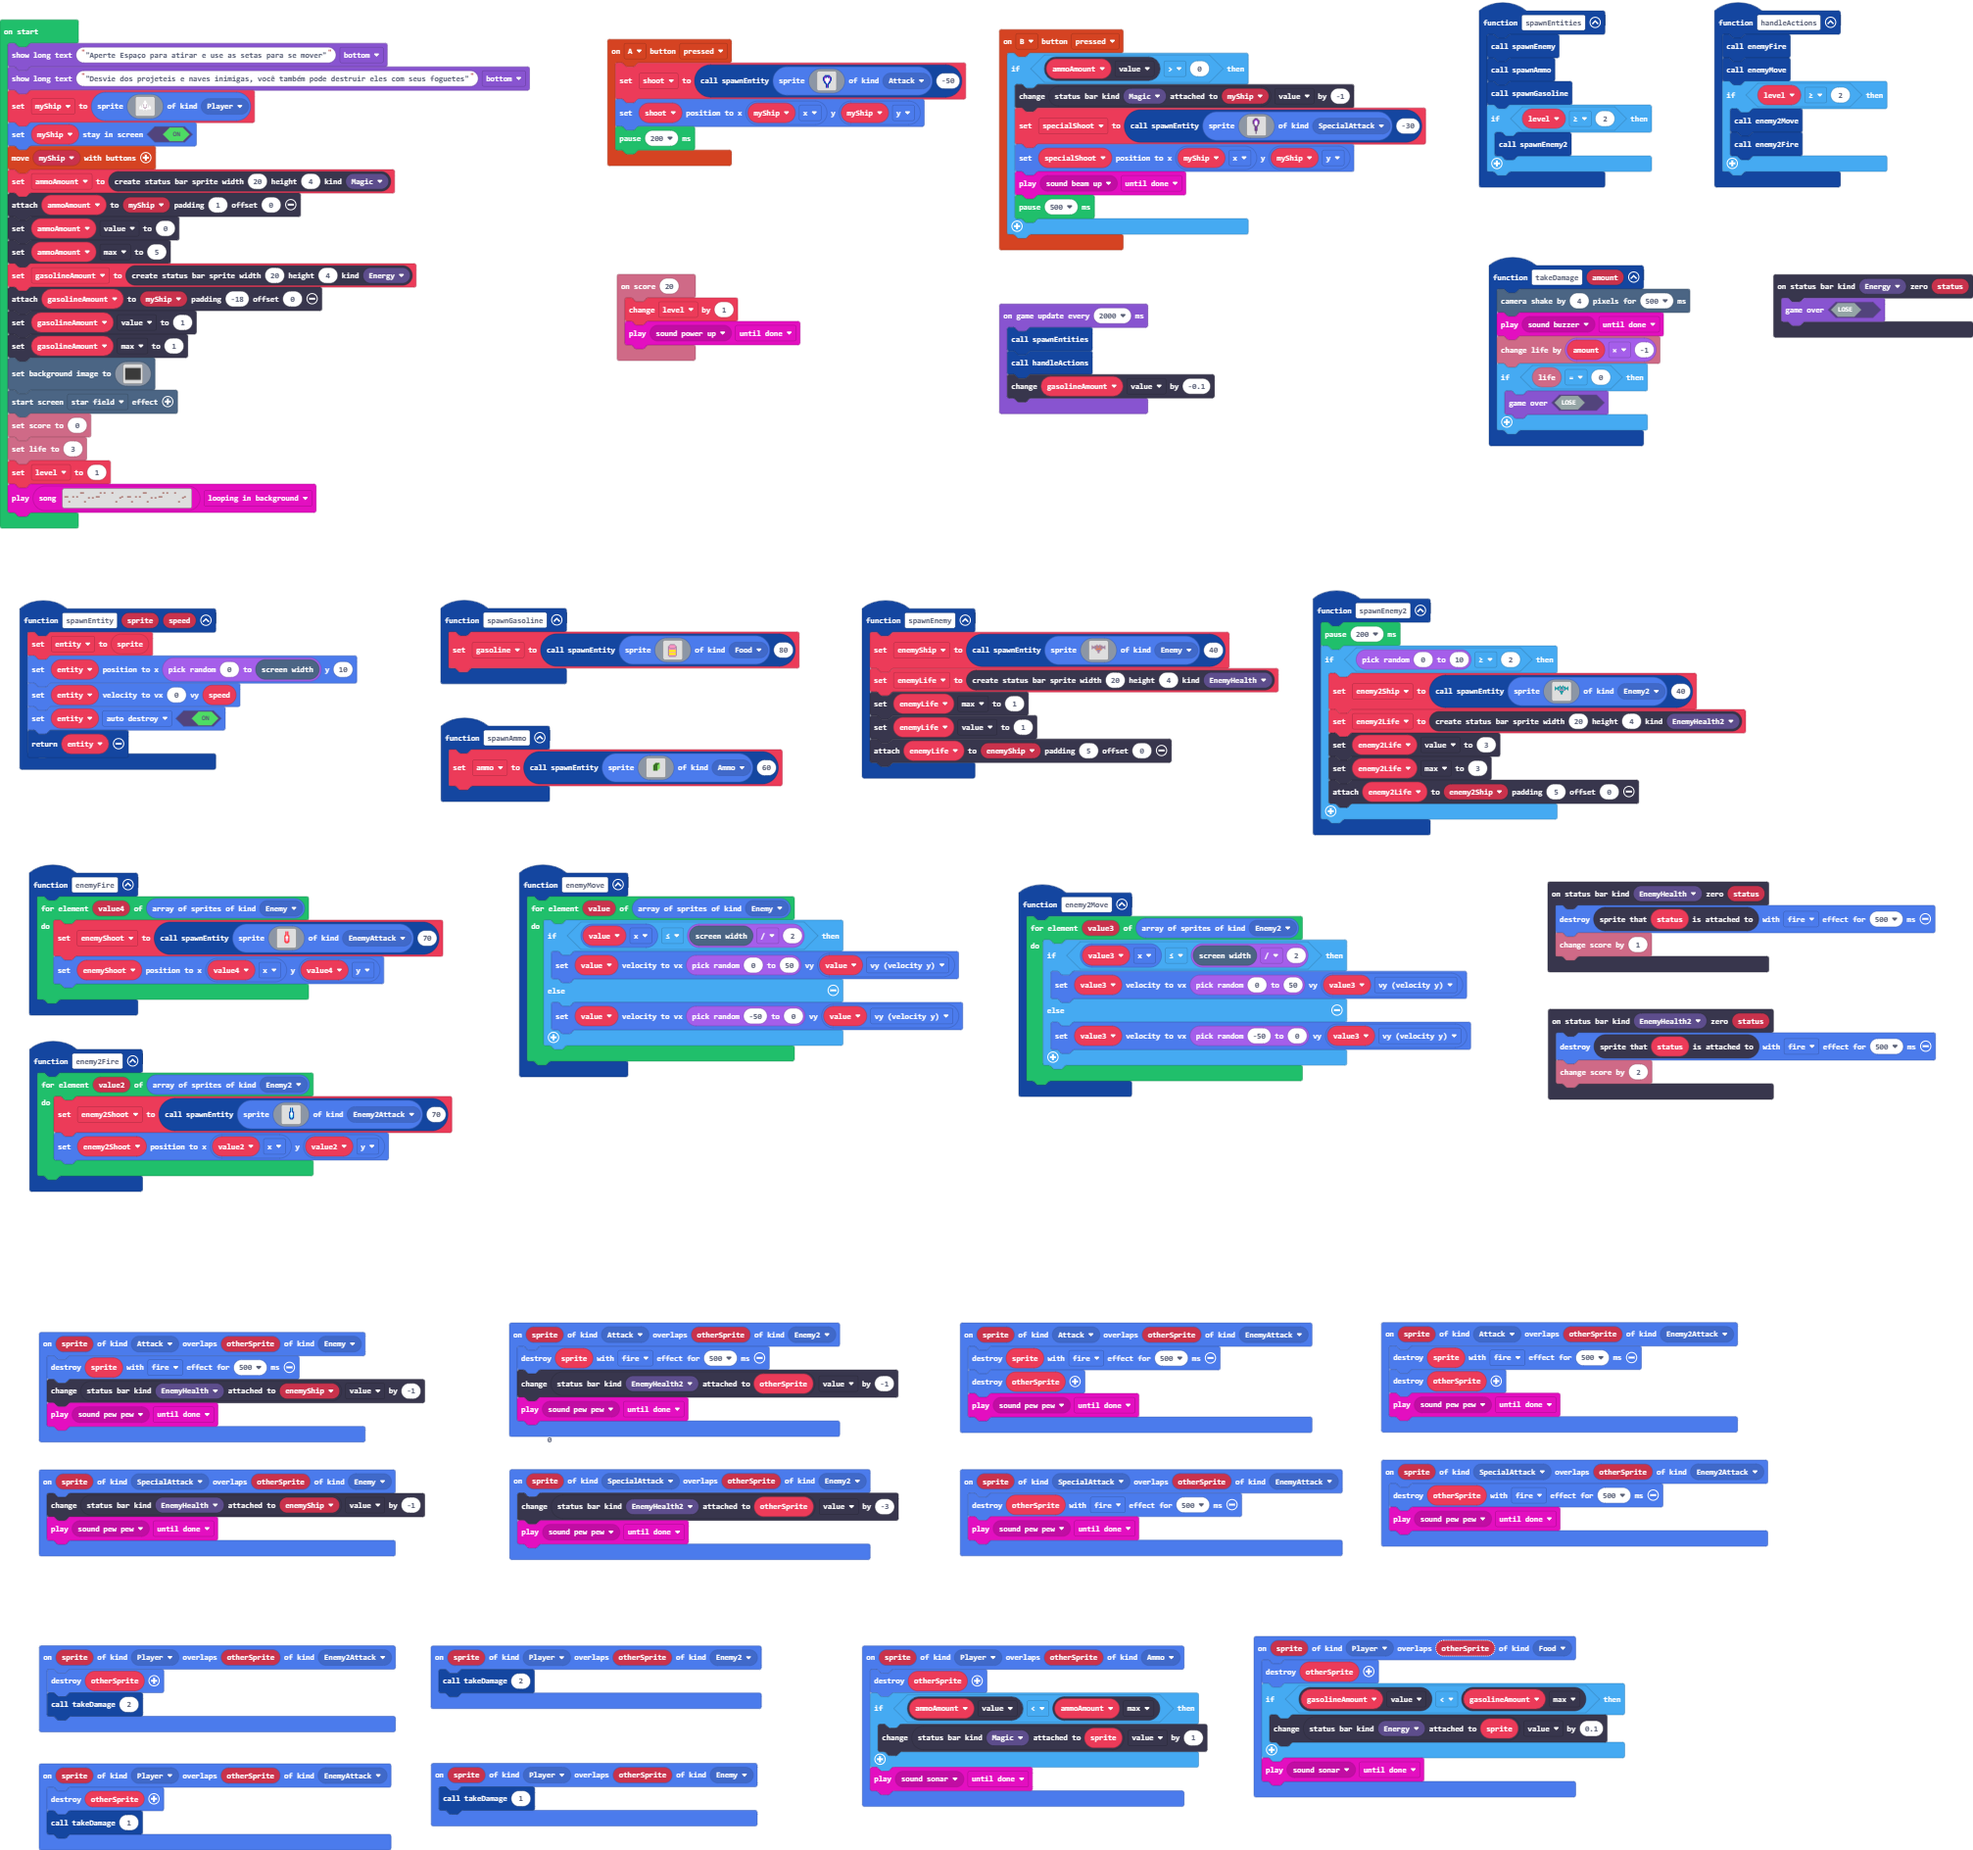
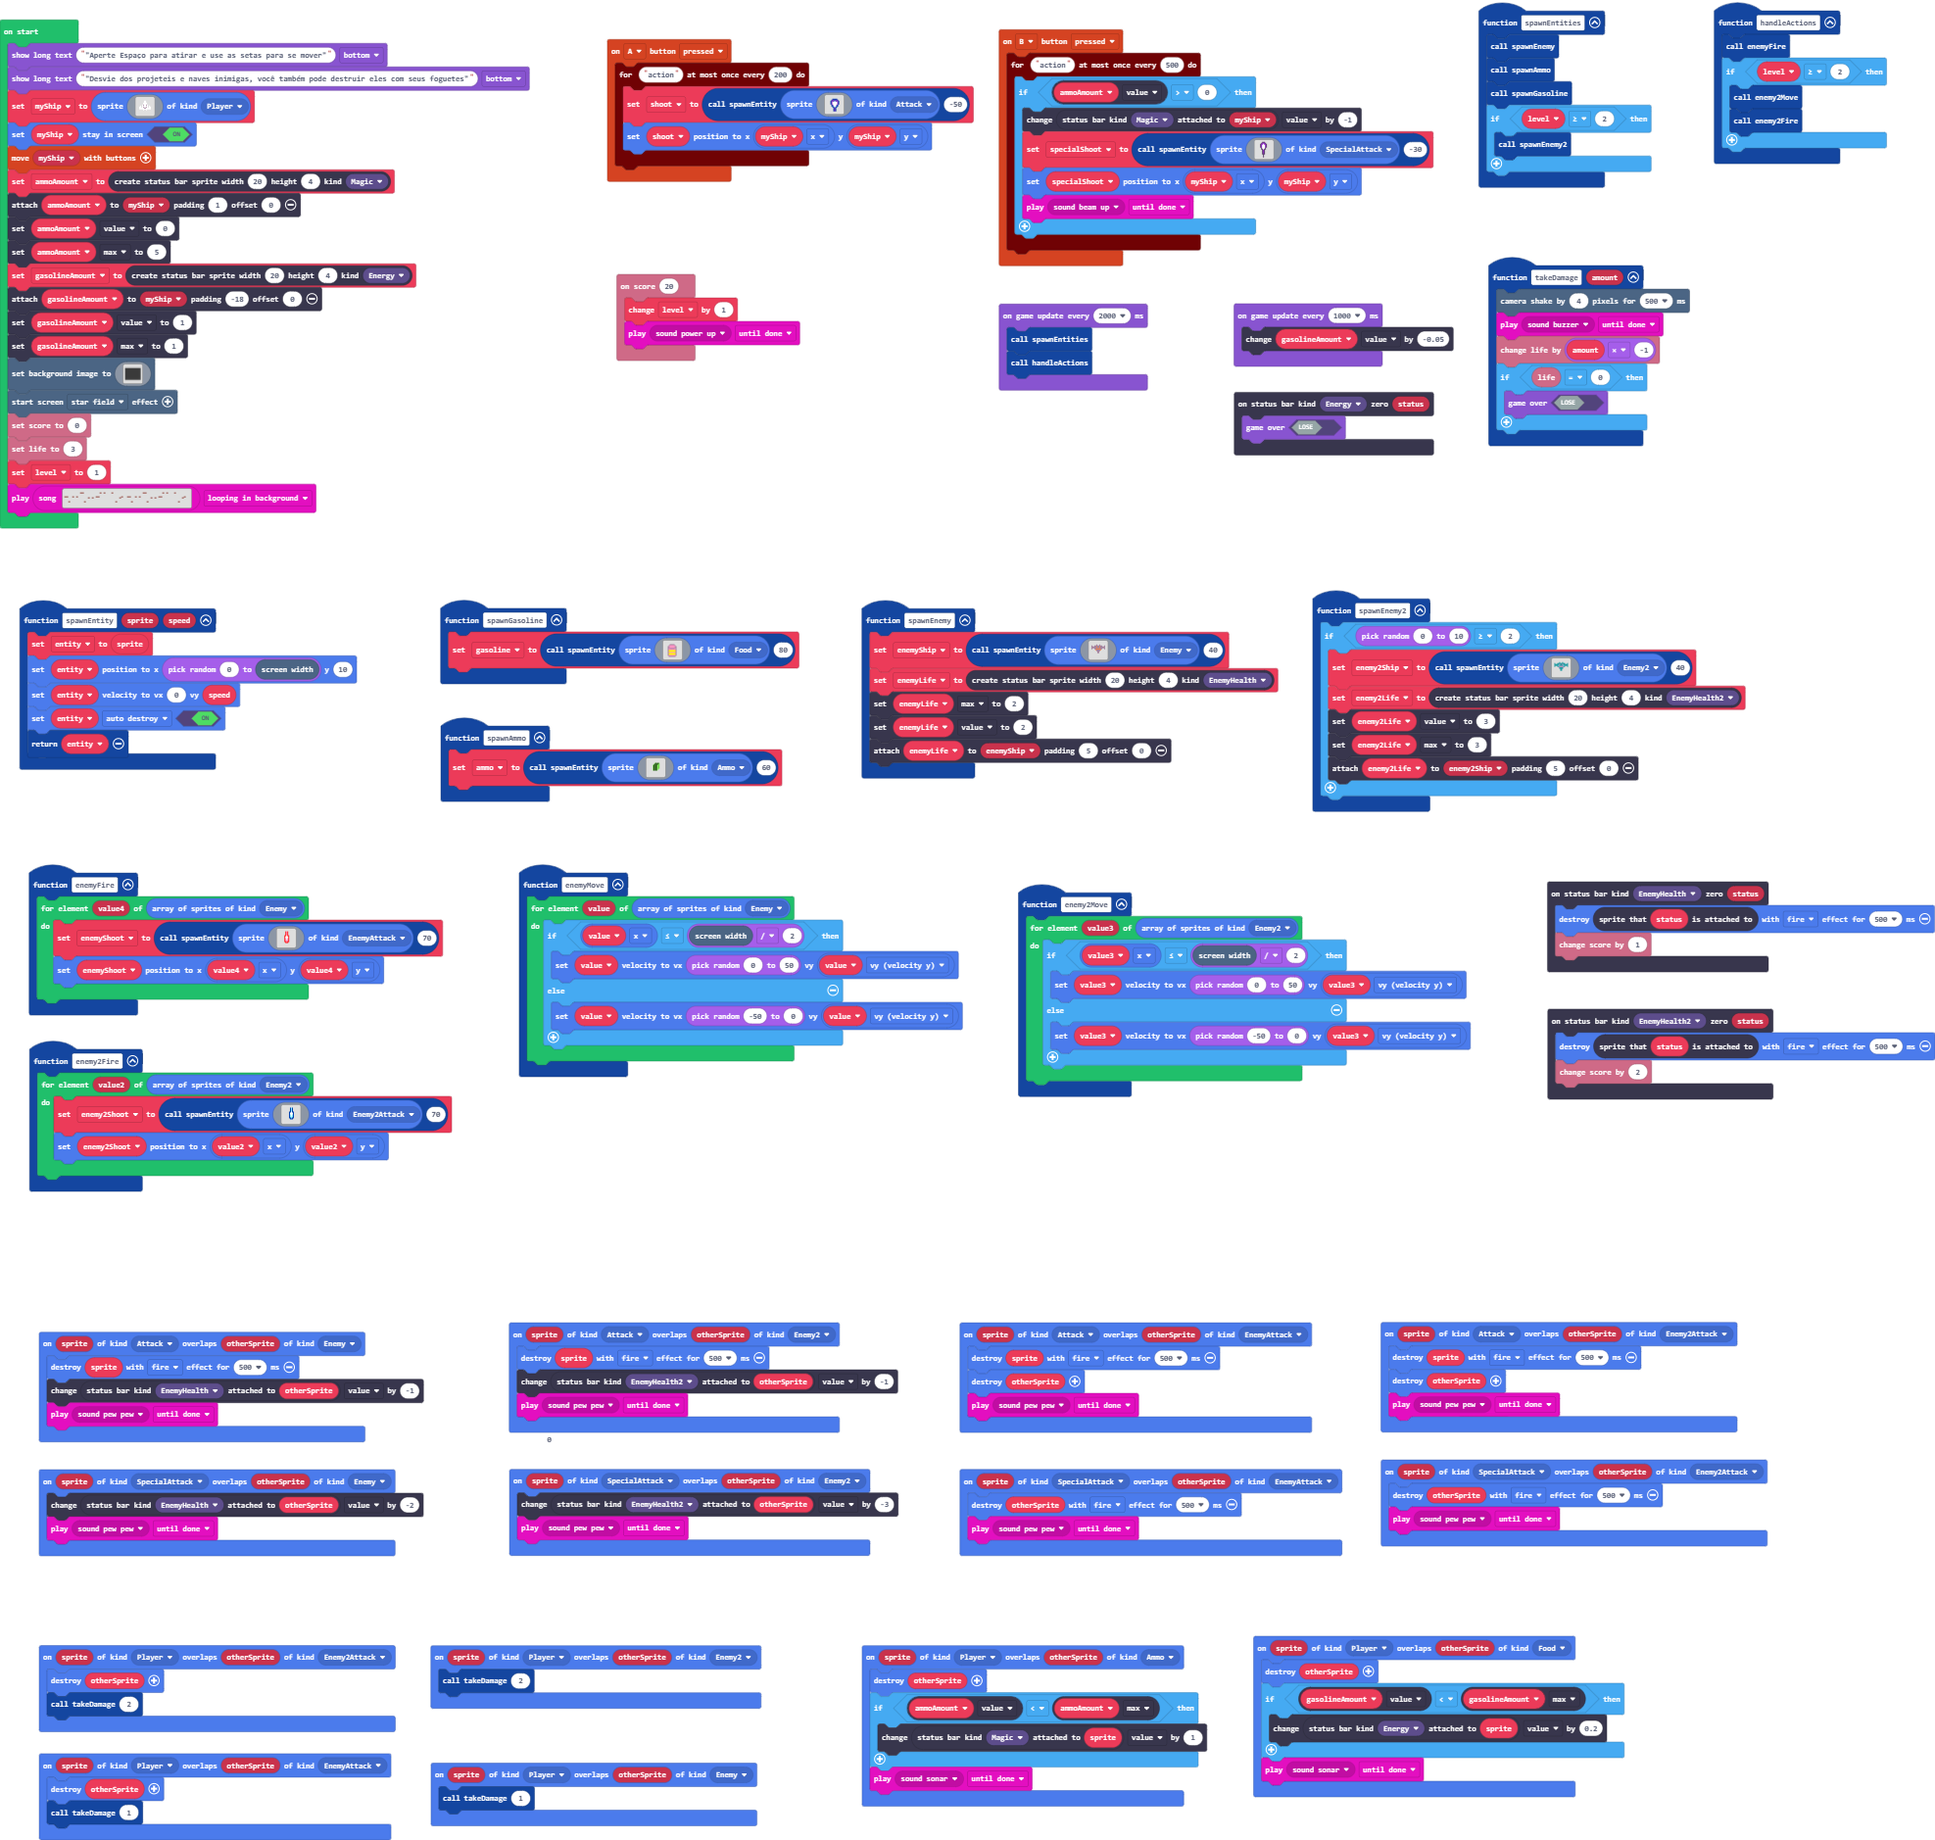
início do balanceamento

diff --git a/main.ts b/main.ts
@@ -10,7 +10,7 @@ namespace StatusBarKind {
     export const EnemyHealth2 = StatusBarKind.create()
 }
 sprites.onOverlap(SpriteKind.SpecialAttack, SpriteKind.Enemy, function (sprite, otherSprite) {
-    statusbars.getStatusBarAttachedTo(StatusBarKind.EnemyHealth, enemyShip).value += -1
+    statusbars.getStatusBarAttachedTo(StatusBarKind.EnemyHealth, otherSprite).value += -2
     music.play(music.melodyPlayable(music.pewPew), music.PlaybackMode.UntilDone)
 })
 function spawnGasoline () {
@@ -48,30 +48,31 @@ function enemyMove () {
     }
 }
 controller.B.onEvent(ControllerButtonEvent.Pressed, function () {
-    if (ammoAmount.value > 0) {
-        statusbars.getStatusBarAttachedTo(StatusBarKind.Magic, myShip).value += -1
-        specialShoot = spawnEntity(sprites.create(img`
-            . . . . . . c c c . . . . . . . 
-            . . . . . c a a a c . . . . . . 
-            . . . . c a a 1 a a c . . . . . 
-            . . . . c a 1 1 1 a c . . . . . 
-            . . . . c a 1 1 1 a c . . . . . 
-            . . . . c a 1 1 1 a c . . . . . 
-            . . . . . c 1 1 1 c . . . . . . 
-            . . . . . c c 1 c c . . . . . . 
-            . . . . . . c a c . . . . . . . 
-            . . . . . . c a c . . . . . . . 
-            . . . . . . c a c . . . . . . . 
-            . . . . . . c a c . . . . . . . 
-            . . . . . . c c c . . . . . . . 
-            . . . . . . . c . . . . . . . . 
-            . . . . . . . c . . . . . . . . 
-            . . . . . . . c . . . . . . . . 
-            `, SpriteKind.SpecialAttack), -30)
-        specialShoot.setPosition(myShip.x, myShip.y)
-        music.play(music.melodyPlayable(music.beamUp), music.PlaybackMode.UntilDone)
-        pause(500)
-    }
+    timer.throttle("action", 500, function () {
+        if (ammoAmount.value > 0) {
+            statusbars.getStatusBarAttachedTo(StatusBarKind.Magic, myShip).value += -1
+            specialShoot = spawnEntity(sprites.create(img`
+                . . . . . . c c c . . . . . . . 
+                . . . . . c a a a c . . . . . . 
+                . . . . c a a 1 a a c . . . . . 
+                . . . . c a 1 1 1 a c . . . . . 
+                . . . . c a 1 1 1 a c . . . . . 
+                . . . . c a 1 1 1 a c . . . . . 
+                . . . . . c 1 1 1 c . . . . . . 
+                . . . . . c c 1 c c . . . . . . 
+                . . . . . . c a c . . . . . . . 
+                . . . . . . c a c . . . . . . . 
+                . . . . . . c a c . . . . . . . 
+                . . . . . . c a c . . . . . . . 
+                . . . . . . c c c . . . . . . . 
+                . . . . . . . c . . . . . . . . 
+                . . . . . . . c . . . . . . . . 
+                . . . . . . . c . . . . . . . . 
+                `, SpriteKind.SpecialAttack), -30)
+            specialShoot.setPosition(myShip.x, myShip.y)
+            music.play(music.melodyPlayable(music.beamUp), music.PlaybackMode.UntilDone)
+        }
+    })
 })
 sprites.onOverlap(SpriteKind.Attack, SpriteKind.EnemyAttack, function (sprite, otherSprite) {
     sprites.destroy(sprite, effects.fire, 500)
@@ -87,26 +88,27 @@ function spawnEntities () {
     }
 }
 controller.A.onEvent(ControllerButtonEvent.Pressed, function () {
-    shoot = spawnEntity(sprites.create(img`
-        . . . . . . . . . . . . . . . . 
-        . . . . . . . . . . . . . . . . 
-        . . . . . . 8 8 8 8 8 . . . . . 
-        . . . . . 8 a a 8 a a 8 . . . . 
-        . . . . 8 a a 8 1 8 a a 8 . . . 
-        . . . . 8 a 1 1 1 1 1 a 8 . . . 
-        . . . . 8 a 1 1 1 1 1 a 8 . . . 
-        . . . . 8 a 1 1 1 1 1 a 8 . . . 
-        . . . . . 8 a 1 1 1 a 8 . . . . 
-        . . . . . 8 8 1 1 1 8 8 . . . . 
-        . . . . . . 8 8 1 8 8 . . . . . 
-        . . . . . . . 8 a 8 . . . . . . 
-        . . . . . . . 8 a 8 . . . . . . 
-        . . . . . . . 8 a 8 . . . . . . 
-        . . . . . . . 8 a 8 . . . . . . 
-        . . . . . . . . . . . . . . . . 
-        `, SpriteKind.Attack), -50)
-    shoot.setPosition(myShip.x, myShip.y)
-    pause(200)
+    timer.throttle("action", 200, function () {
+        shoot = spawnEntity(sprites.create(img`
+            . . . . . . . . . . . . . . . . 
+            . . . . . . . . . . . . . . . . 
+            . . . . . . 8 8 8 8 8 . . . . . 
+            . . . . . 8 a a 8 a a 8 . . . . 
+            . . . . 8 a a 8 1 8 a a 8 . . . 
+            . . . . 8 a 1 1 1 1 1 a 8 . . . 
+            . . . . 8 a 1 1 1 1 1 a 8 . . . 
+            . . . . 8 a 1 1 1 1 1 a 8 . . . 
+            . . . . . 8 a 1 1 1 a 8 . . . . 
+            . . . . . 8 8 1 1 1 8 8 . . . . 
+            . . . . . . 8 8 1 8 8 . . . . . 
+            . . . . . . . 8 a 8 . . . . . . 
+            . . . . . . . 8 a 8 . . . . . . 
+            . . . . . . . 8 a 8 . . . . . . 
+            . . . . . . . 8 a 8 . . . . . . 
+            . . . . . . . . . . . . . . . . 
+            `, SpriteKind.Attack), -50)
+        shoot.setPosition(myShip.x, myShip.y)
+    })
 })
 statusbars.onZero(StatusBarKind.EnemyHealth2, function (status) {
     sprites.destroy(status.spriteAttachedTo(), effects.fire, 500)
@@ -168,14 +170,12 @@ sprites.onOverlap(SpriteKind.Player, SpriteKind.Ammo, function (sprite, otherSpr
 })
 function handleActions () {
     enemyFire()
-    enemyMove()
     if (level >= 2) {
         enemy2Move()
         enemy2Fire()
     }
 }
 function spawnEnemy2 () {
-    pause(200)
     if (randint(0, 10) >= 2) {
         enemy2Ship = spawnEntity(sprites.create(img`
             . . . . . . . . . . . . . . . . 
@@ -211,7 +211,7 @@ function takeDamage (amount: number) {
 }
 sprites.onOverlap(SpriteKind.Attack, SpriteKind.Enemy, function (sprite, otherSprite) {
     sprites.destroy(sprite, effects.fire, 500)
-    statusbars.getStatusBarAttachedTo(StatusBarKind.EnemyHealth, enemyShip).value += -1
+    statusbars.getStatusBarAttachedTo(StatusBarKind.EnemyHealth, otherSprite).value += -1
     music.play(music.melodyPlayable(music.pewPew), music.PlaybackMode.UntilDone)
 })
 function enemy2Fire () {
@@ -264,7 +264,7 @@ function enemy2Move () {
 sprites.onOverlap(SpriteKind.Player, SpriteKind.Food, function (sprite, otherSprite) {
     sprites.destroy(otherSprite)
     if (gasolineAmount.value < gasolineAmount.max) {
-        statusbars.getStatusBarAttachedTo(StatusBarKind.Energy, sprite).value += 0.1
+        statusbars.getStatusBarAttachedTo(StatusBarKind.Energy, sprite).value += 0.2
     }
     music.play(music.melodyPlayable(music.sonar), music.PlaybackMode.UntilDone)
 })
@@ -296,8 +296,8 @@ function spawnEnemy () {
         . . . . . . . . . . . . . . . . 
         `, SpriteKind.Enemy), 40)
     enemyLife = statusbars.create(20, 4, StatusBarKind.EnemyHealth)
-    enemyLife.max = 1
-    enemyLife.value = 1
+    enemyLife.max = 2
+    enemyLife.value = 2
     enemyLife.attachToSprite(enemyShip, 5, 0)
 }
 statusbars.onZero(StatusBarKind.Energy, function (status) {
@@ -324,6 +324,7 @@ sprites.onOverlap(SpriteKind.Player, SpriteKind.Enemy, function (sprite, otherSp
 })
 let entity: Sprite = null
 let enemyLife: StatusBarSprite = null
+let enemyShip: Sprite = null
 let enemy2Shoot: Sprite = null
 let enemy2Life: StatusBarSprite = null
 let enemy2Ship: Sprite = null
@@ -332,7 +333,6 @@ let enemyShoot: Sprite = null
 let shoot: Sprite = null
 let specialShoot: Sprite = null
 let gasoline: Sprite = null
-let enemyShip: Sprite = null
 let level = 0
 let gasolineAmount: StatusBarSprite = null
 let ammoAmount: StatusBarSprite = null
@@ -497,5 +497,7 @@ music.play(music.createSong(hex`0078000408080106001c00010a006400f401640000040000
 game.onUpdateInterval(2000, function () {
     spawnEntities()
     handleActions()
-    gasolineAmount.value += -0.1
+})
+game.onUpdateInterval(1000, function () {
+    gasolineAmount.value += -0.05
 })
